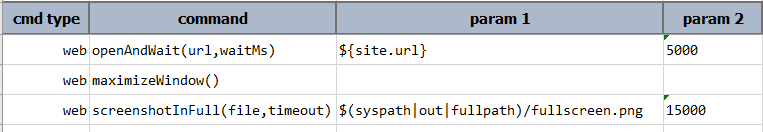
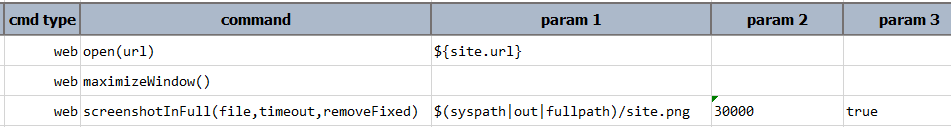
[web] - [`screenshot(file,locator,removeFixed)`]: now support capturing screenshot by disabling persistent navigation elements. - [`screenshotInFull(file,timeout,removeFixed)`]: now support capturing screenshot by disabling persistent navigation elements.

diff --git a/commands/web/screenshotInFull(file,timeout,removeFixed).md b/commands/web/screenshotInFull(file,timeout,removeFixed).md
@@ -1,0 +1,54 @@
+---
+layout: default
+title: screenshotInFull(file,timeout,removeFixed)
+parent: web
+tags: command web locator values
+comments: true
+---
+
+### Description
+This command automates the screen capture (to `file`) of a entire web page with timeout between scroll specified by 
+`timeout` (in millisecond). The `timeout` is the time needed to load web content and resources (such as images) of the 
+current web page before further scrolling. If the web page in question is fully loaded, then it is most likely ok to 
+specify a relatively low value for timeout (such as `200` to `500`).
+
+Some web pages might contain persistent (_"sticky"_) navigation elements on the top or bottom of a page. While Nexial 
+is scrolling a web page during its screenshot capturing, the persistent element would continue to appear:<br/>
+![](image/screenshotInFull_05.png)
+
+To circumvent such issue, one can specify the `removeFixed` parameter as `true` to activate additional automation in
+Nexial. When `removeFixed` parameter is set to `true`, Nexial will attempt to find any existing persistent navigation
+(either top or bottom of the page) and disable its positional persistence. After the full page screenshot is complete,
+Nexial will restore the page navigation's positional persistence.
+
+This is not always the best approach. Sometimes one would prefer a more customized or fine-grained control over the web
+elements instead. For example:<br/>
+![](image/screenshotInFull_04.png)
+
+In above example, [WEB &raquo; `executeScript(var,script)`](executeScript(var,script)) command will remove header with 
+`headerId`. Then, user can take full screenshot using `screenshotInFull(file,timeout,removeFixed)` command. After 
+screenshot taken, user can refresh page to go back to original page with header.
+
+Note that if [`nexial.outputToCloud`](../../systemvars/index.md#nexial.outputToCloud) System variable is set to `true`, 
+then the captured image will be uploaded to the cloud as well.
+
+
+### Parameters
+- **file** -This parameter is the file path to save entire web page screen capture.
+- **timeout** - This parameter is the time (in milliseconds) before scrolling.
+- **removeFixed** - `true` if Nexial should temporarily disable persistent navigation placements while performing full 
+  page screen capturing.
+
+
+### Example
+Suppose we want to capture full web page image from news.google.com:<br/>
+
+**Script**:<br/>
+![](image/screenshotInFull_01.png)
+
+**Captured screen**:<br/>
+![](image/screenshotInFull_03_1.png)
+
+
+### See Also
+- [screenshot(file,locator)](screenshot(file,locator))

diff --git a/commands/web/screenshot(file,locator,removeFixed).md b/commands/web/screenshot(file,locator,removeFixed).md
@@ -1,0 +1,43 @@
+---
+layout: default
+title: screenshot(file,locator,removeFixed)
+parent: web
+tags: command web locator values
+comments: true
+---
+
+### Description
+This command automates the screen capture (to `file`) of a Web element denoted by `locator`. If the `locator` resolves
+to multiple web element, then only the first one is considered. 
+
+Some web pages might contain persistent (_"sticky"_) navigation elements on the top or bottom of a page. While Nexial 
+is scrolling the target web element during screenshot capturing, the persistent element would continue to appear. To 
+circumvent such issue, one can specify the `removeFixed` parameter as `true` to activate additional automation in
+Nexial. When `removeFixed` parameter is set to `true`, Nexial will attempt to find any existing persistent navigation
+(either top or bottom of the page) and disable its positional persistence. After screenshot capturing is complete,
+Nexial will restore the page navigation's positional persistence.
+
+If [`nexial.outputToCloud`](../../systemvars/index.md#nexial.outputToCloud) System variable is set to `true`, then the 
+captured image will be uploaded to the cloud as well.
+
+
+### Parameters
+- **file** - the screen capture saved as a file.
+- **locator** - this parameter is the locator of the element.
+- **removeFixed** - `true` if Nexial should temporarily disable persistent navigation placements while performing 
+  screen capturing.
+
+
+### Example
+Suppose we want to capture element image from acousticguitar.com:<br/>
+![](image/screenshot_03.png)
+
+**Script**:<br/>
+![](image/screenshot_01.png)
+
+**The captured image**:<br/>
+![](image/screenshot_02_1.png)
+
+
+### See Also
+- [`screenshot(file,locator)`](screenshot(file,locator))

diff --git a/commands/web/index.md b/commands/web/index.md
@@ -177,8 +177,8 @@ available commands.
 - [`saveTextSubstringBetween(var,locator,start,end)`](saveTextSubstringBetween(var,locator,start,end))
 - [`saveValue(var,locator)`](saveValue(var,locator))
 - [`saveValues(var,locator)`](saveValues(var,locator))
-- [`screenshot(file,locator)`](screenshot(file,locator))
-- [`screenshotInFull(file,timeout)`](screenshotInFull(file,timeout))
+- [`screenshot(file,locator,removeFixed)`](screenshot(file,locator,removeFixed))
+- [`screenshotInFull(file,timeout,removeFixed)`](screenshotInFull(file,timeout,removeFixed))
 - [`scrollElement(locator,xOffset,yOffset)`](scrollElement(locator,xOffset,yOffset))
 - [`scrollLeft(locator,pixel)`](scrollLeft(locator,pixel))
 - [`scrollPage(xOffset,yOffset)`](scrollPage(xOffset,yOffset))

diff --git a/release/nexial-core-v3.3.changelog.md b/release/nexial-core-v3.3.changelog.md
@@ -57,3 +57,8 @@ comments: true
 
 
 ### [web commands](../commands/web)
+- [`screenshot(file,locator,removeFixed)`](../commands/web/screenshot(file,locator,removeFixed)): now support capturing
+  screenshot by disabling persistent navigation elements.
+- [`screenshotInFull(file,timeout,removeFixed)`](../commands/web/screenshotInFull(file,timeout,removeFixed)): now 
+  support capturing screenshot by disabling persistent navigation elements.
+
